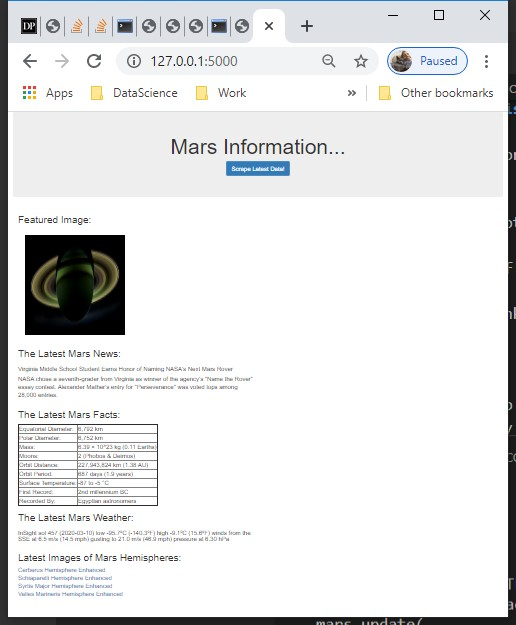
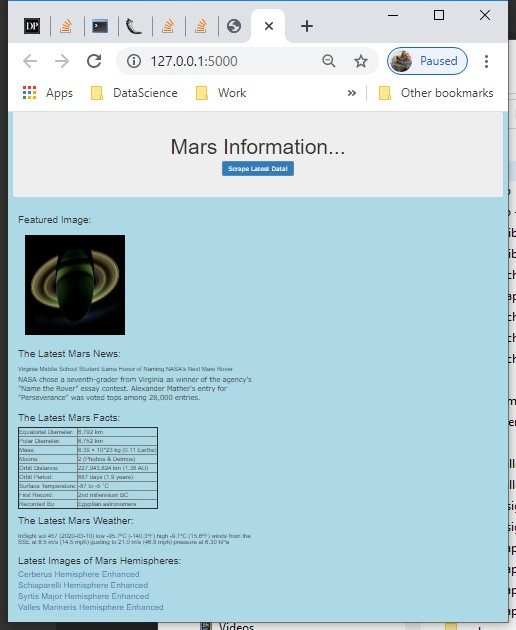
hooked in .css 1.1

diff --git a/Missions_to_Mars/templates/index.html b/Missions_to_Mars/templates/index.html
@@ -8,7 +8,8 @@
   <meta http-equiv="X-UA-Compatible" content="ie=edge">
   <title>Mars Information</title>
   <link rel="stylesheet" href="https://maxcdn.bootstrapcdn.com/bootstrap/3.3.7/css/bootstrap.min.css">
-
+  <link rel="stylesheet" type= "text/css" href= "{{ url_for('static',filename='stylesheets/style.css') }}">
+  <link rel="stylesheet" type= "text/css" href= "{{ url_for('static',filename='stylesheets/df_style.css') }}">
 
 </head>
 
@@ -55,15 +56,17 @@
       <h2>Latest Images of Mars Hemispheres:</h2>
       <div class="row">
         <div class="col-md-6">
-          <a href={{mars.hemisphere_image_urls[0].img_url}}>{{mars.hemisphere_image_urls[0].title}}</a>
+          <a href={{mars.hemisphere_image_urls[0].img_url}} class="hemlink">{{mars.hemisphere_image_urls[0].title}}</a>
           <br>
-          <a href={{mars.hemisphere_image_urls[1].img_url}}>{{mars.hemisphere_image_urls[1].title}}</a>
+          <a href={{mars.hemisphere_image_urls[1].img_url}} class="hemlink">{{mars.hemisphere_image_urls[1].title}}</a>
           <br>
-          <a href={{mars.hemisphere_image_urls[2].img_url}}>{{mars.hemisphere_image_urls[2].title}}</a>
+          <a href={{mars.hemisphere_image_urls[2].img_url}} class="hemlink">{{mars.hemisphere_image_urls[2].title}}</a>
           <br>
-          <a href={{mars.hemisphere_image_urls[3].img_url}}>{{mars.hemisphere_image_urls[3].title}}</a>
+          <a href={{mars.hemisphere_image_urls[3].img_url}} class="hemlink">{{mars.hemisphere_image_urls[3].title}}</a>
         </div>
       </div>
+
+      <div class="row"><br></div>
 
     </div>
   </div>

diff --git a/Missions_to_Mars/styles.css b/Missions_to_Mars/styles.css
@@ -12,10 +12,14 @@ p {
   font-size: 20px;
 }
 
+
+hemlink { font-size: 300px; text-decoration: none; }
+
+
 /* Giving our navbar some padding and a background color */
 .navbar {
   padding: 10px;
-  background: #8baabd;
+  background: #373d41;
   color:black;
 }
 

diff --git a/Missions_to_Mars/static/stylesheets/style.css b/Missions_to_Mars/static/stylesheets/style.css
@@ -12,10 +12,12 @@ p {
   font-size: 20px;
 }
 
+.hemlink { font-size: 25px; text-decoration: none; }
+
 /* Giving our navbar some padding and a background color */
 .navbar {
   padding: 10px;
-  background: #8baabd;
+  background: #373d41;
   color:black;
 }
 
